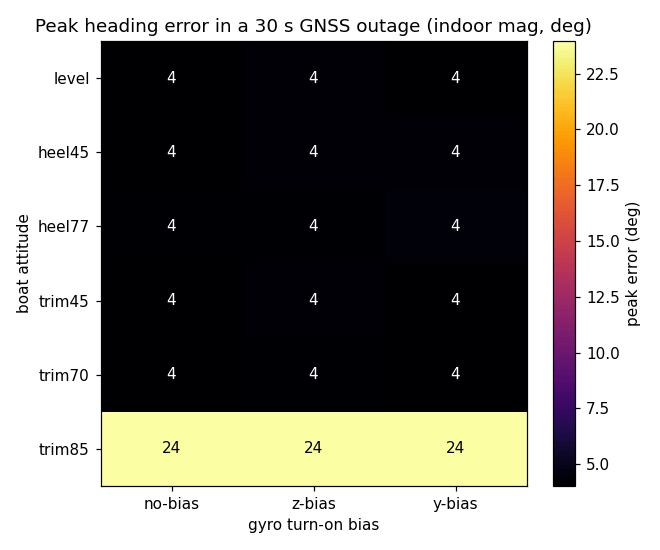
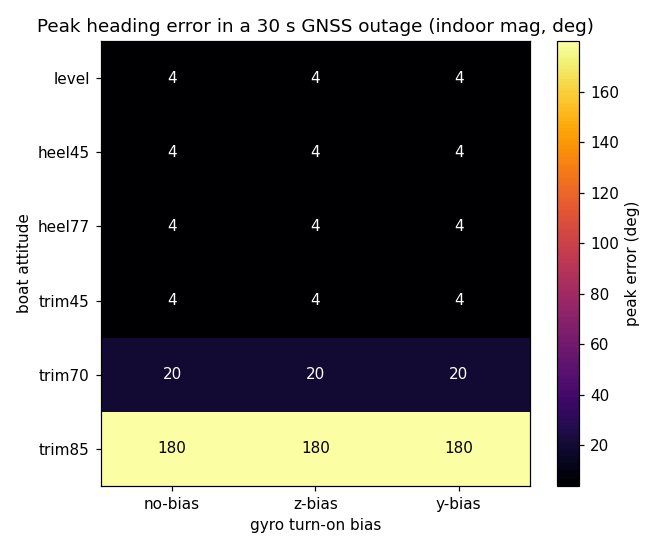
Accept fixed-ambiguity GNSS heading and align the mount to boat-forward (#72)
* Accept fixed-ambiguity GNSS heading and align the mount to boat-forward

* Update sim screenshots

---------

diff --git a/sim/tests/test_boot_anchor.py b/sim/tests/test_boot_anchor.py
@@ -15,8 +15,9 @@ from dataclasses import replace
 
 import numpy as np
 
-from plrs_sim import GnssNoiseModel, ImuNoiseModel, Scenario, Static, Vec3
+from plrs_sim import EkfConfig, GnssNoiseModel, ImuNoiseModel, Scenario, Static, Vec3
 from plrs_sim.angles import wrap180
+from plrs_sim.attitude import euler_to_quaternion
 from plrs_sim.noise import MTI3_GYRO_WHITE_STD_RAD_S
 from plrs_sim.runner import run
 from plrs_sim.source import SimulatedSource
@@ -26,10 +27,18 @@ _END_S = 120.0
 _DEG2RAD = math.pi / 180.0
 
 
-def _no_gnss_source(seed: int) -> SimulatedSource:
+def _no_gnss_source(seed: int, cfg: EkfConfig) -> SimulatedSource:
     # No GNSS ever (outage from t=0), a clean mag, and a 0.2 deg/s turn-on Z
     # bias so there is real heading drift for the anchor to hold against.
+    #
+    # The synthesized IMU is tilted by the same mount the filter corrects for,
+    # as __main__ does. Leaving it identity while the filter carries the boat's
+    # measured mount would make the filter de-rotate a rotation the IMU never
+    # had, and with no GNSS to pull heading back nothing would absorb the error.
     return SimulatedSource(
+        imu_mount=euler_to_quaternion(
+            cfg.mount_roll_deg, cfg.mount_pitch_deg, cfg.mount_yaw_deg
+        ),
         scenario=Scenario(heading=Static(heading_deg=0.0)),
         imu_noise=ImuNoiseModel(
             gyro_white_std_rad_s=MTI3_GYRO_WHITE_STD_RAD_S,
@@ -51,12 +60,12 @@ def _peak_heading_error(trace) -> float:
 def test_seed_anchors_heading_from_boot_without_gnss() -> None:
     # Seeded + pinned: heading is anchored to the clean mag from the first
     # sample and holds near truth for the whole no-GNSS run. The synthetic mag
-    # models no declination (magnetic == true), so the sim-correct seed is 0;
-    # the shipped tuning's -15.5 is the real Vancouver declination the water,
-    # not this scenario, carries.
+    # models no declination (magnetic == true) and a square IMU, so the
+    # sim-correct seed is 0; the shipped seed is the real boat's declination
+    # plus frame constant, which this scenario does not carry.
     base = load_tuning()
     seeded = replace(base, mti_yaw=replace(base.mti_yaw, offset_seed_deg=0.0))
-    assert _peak_heading_error(run(_no_gnss_source(7), seeded)) < 3.0
+    assert _peak_heading_error(run(_no_gnss_source(7, seeded), seeded)) < 3.0
 
 
 def test_unseeded_heading_drifts_without_gnss() -> None:
@@ -68,4 +77,4 @@ def test_unseeded_heading_drifts_without_gnss() -> None:
         base,
         mti_yaw=replace(base.mti_yaw, offset_seed_deg=None, q_offset_outage_deg2=None),
     )
-    assert _peak_heading_error(run(_no_gnss_source(7), unseeded)) > 10.0
+    assert _peak_heading_error(run(_no_gnss_source(7, unseeded), unseeded)) > 10.0

diff --git a/sim/tests/test_tuning.py b/sim/tests/test_tuning.py
@@ -2,7 +2,7 @@
 
 from __future__ import annotations
 
-from plrs_sim import MtiYawConfig, load_mount, load_tuning
+from plrs_sim import load_mount, load_tuning
 from plrs_sim.tuning import DEFAULT_PATH
 
 
@@ -22,16 +22,18 @@ def test_default_tuning_loads_all_fields() -> None:
 
 
 def test_default_tuning_enables_mti_yaw() -> None:
-    cfg = load_tuning()
-    # Shipped tuning anchors heading to the mag from boot: the offset is seeded
-    # and pinned so a clean mag holds heading with no GNSS. See tuning.toml.
-    assert cfg.mti_yaw == MtiYawConfig(
-        variance_deg2=4.0,
-        q_offset_deg2=1.0,
-        p0_offset_deg2=4.0,
-        q_offset_outage_deg2=1e-4,
-        offset_seed_deg=-131.7,
-    )
+    # The capability the shipped tuning must keep: the mag measurement is on,
+    # the offset is seeded so heading is anchored from boot, and it is pinned so
+    # a clean mag holds heading with no GNSS. The values themselves are a site
+    # and boat calibration, so they are deliberately not asserted here; the
+    # loader is covered against a fixture in test_load_tuning_reads_a_custom_file.
+    yaw = load_tuning().mti_yaw
+    assert yaw is not None
+    assert yaw.offset_seed_deg is not None
+    assert yaw.q_offset_outage_deg2 is not None
+    assert yaw.variance_deg2 > 0.0
+    assert yaw.q_offset_deg2 > 0.0
+    assert yaw.p0_offset_deg2 > 0.0
 
 
 def test_load_tuning_reads_a_custom_file(tmp_path) -> None:
@@ -60,9 +62,11 @@ def test_load_tuning_reads_a_custom_file(tmp_path) -> None:
 
 
 def test_load_mount_reads_gnss_section() -> None:
+    # baseline_offset_deg is a physical antenna measurement, so only its range
+    # is asserted; test_load_mount_reads_a_custom_file pins exact parsing.
     mount = load_mount()
-    assert mount.baseline_offset_deg == 0.0
-    assert mount.fallback_heading_variance_deg2 == 4.0
+    assert -360.0 <= mount.baseline_offset_deg <= 360.0
+    assert mount.fallback_heading_variance_deg2 > 0.0
 
 
 def test_load_mount_reads_a_custom_file(tmp_path) -> None:
@@ -73,15 +77,6 @@ def test_load_mount_reads_a_custom_file(tmp_path) -> None:
     mount = load_mount(path)
     assert mount.baseline_offset_deg == 17.5
     assert mount.fallback_heading_variance_deg2 == 9.0
-
-
-def test_default_tuning_has_zero_imu_mount() -> None:
-    cfg = load_tuning()
-    assert (cfg.mount_roll_deg, cfg.mount_pitch_deg, cfg.mount_yaw_deg) == (
-        0.0,
-        0.0,
-        0.0,
-    )
 
 
 def test_load_tuning_reads_imu_mount_section(tmp_path) -> None:

diff --git a/src/gnss_task.cpp b/src/gnss_task.cpp
@@ -176,6 +176,10 @@ send_verified(septentrio_gnss::Uart &uart,
  * headings. Without it the receiver emits AttEuler with mode NO_ATTITUDE and
  * the filter never gets a heading fix.
  *
+ * The resolution is Fixed because gnss_bridge accepts only fixed-ambiguity
+ * modes (2 and 4). Under Float the receiver reports mode 1, so every sample
+ * arrives valid=false and the filter never sees a heading at all.
+ *
  * @param uart    Transport to the mosaic-go-H.
  * @param parser  Wire parser instance.
  */
@@ -194,7 +198,7 @@ static void bring_up(septentrio_gnss::Uart &uart,
                       parser,
                       septentrio_gnss::set_gnss_attitude(
                           septentrio_gnss::GnssAttitudeMode::MultiAntenna,
-                          septentrio_gnss::AttitudeResolution::Float),
+                          septentrio_gnss::AttitudeResolution::Fixed),
                       "setGNSSAttitude") &&
         send_verified(uart,
                       parser,

diff --git a/lib/fusion/offset_store.h b/lib/fusion/offset_store.h
@@ -25,8 +25,12 @@ using plrs::ByteSpan;
 
 // Identifies our blob in the flash sector and versions its layout, so a stale
 // or foreign sector (or a format change) is rejected rather than trusted.
+// Bump VERSION whenever the meaning of the stored offset changes, not only its
+// layout: a persisted offset is only valid for the frame it was learned in, so
+// an IMU mount or antenna baseline change must invalidate it. Version 2 is the
+// 2026-08-16 recalibration to boat-forward.
 constexpr uint32_t MAGIC = 0x4d414730; // "MAG0"
-constexpr uint16_t VERSION = 1;
+constexpr uint16_t VERSION = 2;
 
 // A mag offset outside this is not a physical heading offset; reject on load.
 constexpr float OFFSET_LIMIT_DEG = 180.0f;
